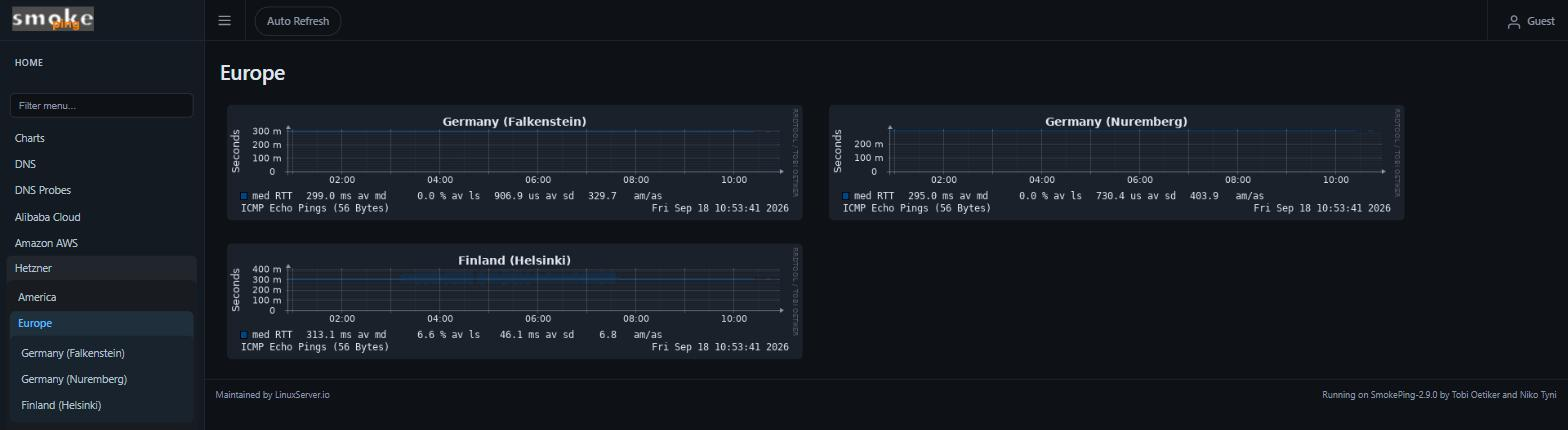
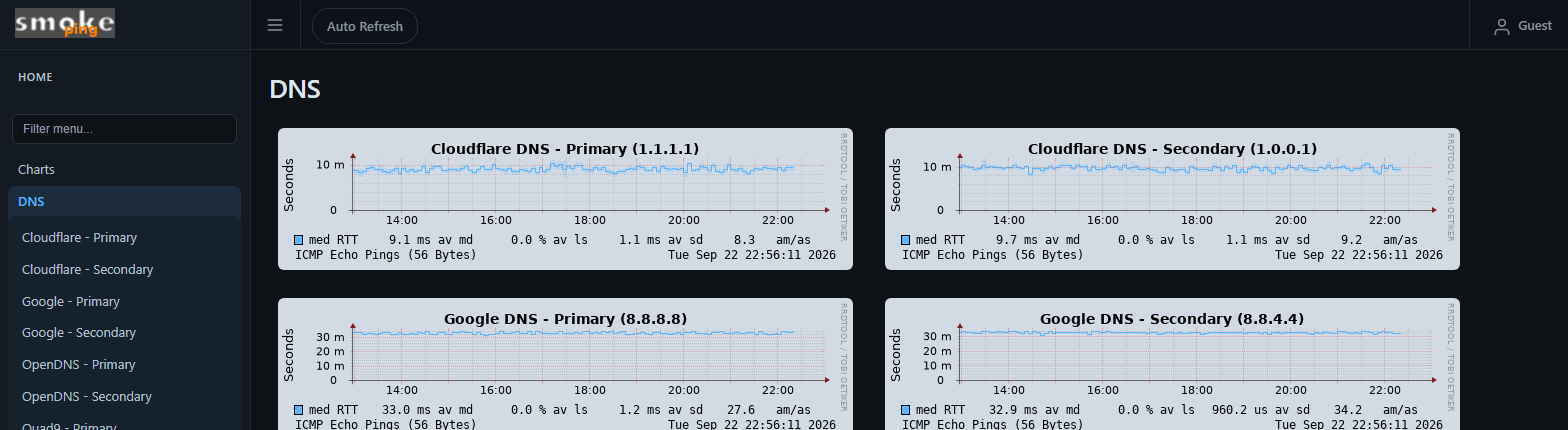
Refine dark theme to presentation-only
This change shifts the theme to a presentation-only dark page skin with a soft blue-gray graph canvas and stock SmokePing rendering, while limiting the optional patch to DejaVu fonts and matching zoom margins. It updates the CSS, Apache alias docs, startup and uninstall scripts, README instructions, and screenshots to match the new configuration values and visual examples.

diff --git a/css/smokeping-dark.css b/css/smokeping-dark.css
@@ -13,7 +13,7 @@
 	--text-muted: #8b96a5;
 	--accent: #58b7ff;
 	--accent-soft: rgba(88, 183, 255, 0.12);
-	--graph-bg: #1a212b; /* matches colorbackground in the Presentation config (same as --surface-2) */
+	--graph-bg: #d2dae4; /* matches colorbackground in the Presentation config */
 	--radius: 10px;
 	--sidebar-width: 250px;
 }

diff --git a/README.md b/README.md
@@ -1,68 +1,73 @@
 # SmokePing Dark Theme
 
-A modern, easy-on-the-eyes dark theme for [SmokePing](https://oss.oetiker.ch/smokeping/) 2.9 and newer. It darkens the whole UI and, more importantly, the graphs themselves, so the "smoke" finally looks like smoke instead of grey blocks.
+A presentation-only dark page theme for [SmokePing](https://oss.oetiker.ch/smokeping/) 2.9 and newer. The surrounding UI uses dark surfaces, while SmokePing's stock graph renderer uses a soft blue-grey canvas so the traces, smoke, grid, and black step connectors remain easy to read. No probes, RRD files, retention settings, or collected latency data are changed.
 
-![Detail page with four dark graphs](docs/images/detail-page.png)
+## What it provides
 
-## What you get
+- Dark sidebar, navbar, panels, graph containers, and footer.
+- SmokePing's stock graph colours, smoke, grid, axes, zero rule, and connector.
+- Presentation canvas `#d2dae4`, matching the stylesheet's `--graph-bg` value.
+- Optional DejaVu graph fonts with matching drag-to-zoom margins.
+- Responsive layout, accessible links, print styles, and the existing SmokePing JavaScript assets.
 
-- **A dark UI.** Sidebar, navbar, panels and footer all go dark, with a blue accent, rounded corners and soft shadows.
-- **Dark graphs.** The smoke is drawn as translucent, accent-tinted bands that fade from nearly invisible at the edges to a soft core at the median. The latency spread reads as a cloud, and the median line stays the brightest thing on the plot.
-- **A loss palette that works on dark.** The median and loss colours are re-tuned so every loss level is visible. Loss backgrounds become subtle tints of the canvas instead of bright pastels. The grid is a faint solid white, and the fonts are larger and anti-aliased.
-- **Your data is safe.** Everything here is presentation only. The RRD files are never touched.
+## Screenshots
 
-Here is what a target with a bit of packet loss looks like over ten days. The vertical tints are loss, the pale cloud around the line is the smoke:
-
-![Ten day graph with smoke and loss](docs/images/graph-10-days.png)
-
-And the same target over the last 30 hours:
-
-![Thirty hour graph](docs/images/graph-30-hours.png)
-
-The overview pages get the same treatment:
+These examples show the current theme and graph presentation:
 
 ![Overview page](docs/images/overview-page.png)
 
-## How it works
+![Detail page](docs/images/detail-page.png)
 
-SmokePing 2.9 lets you set `graphborders`, `colorbackground` and `colortext` in the Presentation config, but the smoke shading, loss palette, median base line, zero rule, grid colours and fonts are all hardcoded for a light canvas. A small init script (`custom-cont-init.d/10-dark-graphs.sh`) patches those at container start:
+![10-day graph](docs/images/graph-10-days.png)
 
-| Patch | Effect |
-| --- | --- |
-| `smokecol` in `Smokeping.pm` draws one translucent accent-tinted colour per band | The nested bands stack into a gradient from 6% coverage at the edges to 60% at the median. This works for any ping count, so 5-ping and 20-ping probes both look right. |
-| Loss palette (`#26ff00`, `#00b8ff`, `#0059ff`, and so on) becomes bright, evenly spaced hues | The median line and loss legend stay readable. The stock blues and purples vanish on dark. |
-| Loss background tints blend the loss colour into `colorbackground` | Subtle tinted loss columns instead of bright pastels. |
-| `LINE1:median#202020` becomes `#dfe5ee`, `HRULE:0#000000` becomes `#8b96a5` | The base line and zero rule are visible on dark. |
-| `GRID`, `MGRID`, `AXIS` and `ARROW` colours, `--grid-dash 1:0` and `--font` sizes added in `Graphs.pm` | Faint solid grid, muted axes, larger anti-aliased title, axis and legend text. |
-| `RRDLeft` and `RRDRight` in `smokeping.js` | Drag-to-zoom still maps pixels to time correctly with the larger axis font. |
+![30-hour graph](docs/images/graph-30-hours.png)
 
-The script is idempotent and re-applies itself after image updates or container recreation. If you ever want to go back, `uninstall-dark-graphs.sh` reverses every patch on a running container or a native install.
+## Presentation settings
 
-## What's in the box
+Set these values in the `*** Presentation ***` section:
+
+```ini
+graphborders = no
+colorbackground = d2dae4
+
++ overview
+width = 470
+height = 50
+
++ detail
+width = 600
+height = 200
+```
+
+Leave `colortext` unset so SmokePing uses its stock graph text colour. The 470-pixel overview width keeps two overview graphs on a row at desktop widths; detail graphs remain 600 pixels wide. An overview median accent can be set separately with `median_color = 58b7ff` in the `+ overview` section.
+
+## Files
 
 | File | Purpose |
 | --- | --- |
-| `basepage.html` | SmokePing page template with the dark CSS link and a dark favicon |
-| `css/smokeping-dark.css` | The stylesheet |
-| `apache/theme-alias.conf` | Apache alias so the CSS is served from a persistent path |
-| `custom-cont-init.d/10-dark-graphs.sh` | Container init script that patches SmokePing for dark graphs |
-| `uninstall-dark-graphs.sh` | Reverses the graph patches on a running container or native install |
+| `basepage.html` | SmokePing page template with the dark stylesheet link and inline favicon |
+| `css/smokeping-dark.css` | Dark page stylesheet; `--graph-bg` matches `colorbackground` |
+| `apache/theme-alias.conf` | Apache alias that serves the persistent theme directory |
+| `custom-cont-init.d/10-dark-graphs.sh` | Idempotent startup patch for DejaVu graph fonts and matching zoom margins |
+| `uninstall-dark-graphs.sh` | Safe reverse helper for the optional font and zoom-margin patch |
+| `docs/images/` | Theme and graph examples used in this document |
+
+The startup patch is limited to graph font declarations and the matching zoom margins. It does not change graph colours, smoke, grid, axes, connectors, canvas, or renderer behaviour. Both scripts skip files that do not contain their patch marker.
 
 ## Install on the linuxserver/smokeping Docker image
 
-The container's webroot and Perl libs are not persisted, so the theme lives in bind-mounted volumes plus a startup script. That way it survives container recreation and image updates.
+The container webroot is not persisted, so place the theme files in the config volume and mount the startup-script directory.
 
-1. Copy the theme into the config volume and the init script next to it:
+1. Copy the template, stylesheet, and startup script:
 
    ```sh
    mkdir -p /path/to/smokeping/config/theme /path/to/smokeping/custom-cont-init.d
    cp basepage.html css/smokeping-dark.css /path/to/smokeping/config/theme/
    cp custom-cont-init.d/10-dark-graphs.sh /path/to/smokeping/custom-cont-init.d/
-   chown root:root /path/to/smokeping/custom-cont-init.d/10-dark-graphs.sh
    chmod 755 /path/to/smokeping/custom-cont-init.d/10-dark-graphs.sh
    ```
 
-2. Mount the init script directory in your compose file:
+2. Mount the directories in the compose file:
 
    ```yaml
    volumes:
@@ -71,7 +76,7 @@ The container's webroot and Perl libs are not persisted, so the theme lives in b
      - ./custom-cont-init.d:/custom-cont-init.d:ro
    ```
 
-3. Add the alias from `apache/theme-alias.conf` to `config/site-confs/smokeping.conf`, **above** the existing `Alias /smokeping ...` line:
+3. Add the alias from `apache/theme-alias.conf` to `config/site-confs/smokeping.conf`, above the existing `Alias /smokeping ...` line:
 
    ```apache
    Alias /smokeping/theme /config/theme
@@ -80,7 +85,7 @@ The container's webroot and Perl libs are not persisted, so the theme lives in b
    </Directory>
    ```
 
-4. In `config/Presentation`, point at the new template and set the dark graph colours. The background matches the panel surface so each graph sits flush inside its card:
+4. In `config/Presentation`, point to the template and set the graph presentation values:
 
    ```ini
    *** Presentation ***
@@ -88,52 +93,61 @@ The container's webroot and Perl libs are not persisted, so the theme lives in b
    template = /config/theme/basepage.html
    charset  = utf-8
    graphborders = no
-   colorbackground = 1a212b
-   colortext = dfe5ee
+   colorbackground = d2dae4
+
+   + overview
+   width = 470
+   height = 50
+
+   + detail
+   width = 600
+   height = 200
    ```
 
-   If you would like the overview graphs to have an accent-coloured median line, add this to the `+ overview` section:
+   Leave `colortext` unset. The smaller overview width keeps two overview graphs on a row; detail graphs remain 600 pixels wide.
 
-   ```ini
-   median_color = 58b7ff
-   ```
-
-5. Recreate the container and clear the rendered graph images. This does **not** touch your RRD history, it just forces SmokePing to draw fresh PNGs:
+5. Recreate the container and clear only rendered graph images. This does not touch RRD history:
 
    ```sh
-   docker compose up -d
+   docker compose up -d --force-recreate
    docker exec smokeping sh -c \
      'find /var/cache/smokeping -name "*.png" -not -name smokeping.png -not -name rrdtool.png -delete'
    ```
 
-That's it. Reload the page and enjoy.
+## Install on a native SmokePing host
 
-### Upgrading the theme
+1. Copy `basepage.html` and `css/smokeping-dark.css` to locations served by SmokePing.
+2. Adjust the stylesheet link in `basepage.html` if the CSS is not served at `theme/smokeping-dark.css`.
+3. Set `template = /path/to/basepage.html` in the Presentation section and add:
 
-When you pull a newer `10-dark-graphs.sh`, force a fresh container so the script patches pristine files instead of skipping ones it already marked as patched:
+   ```ini
+   graphborders = no
+   colorbackground = d2dae4
+
+   + overview
+   width = 470
+   height = 50
+
+   + detail
+   width = 600
+   height = 200
+   ```
+
+   Leave `colortext` unset. The smaller overview width keeps two overview graphs on a row; detail graphs remain 600 pixels wide.
+4. To use the improved graph typography, adjust `GR` and `JS` at the top of `custom-cont-init.d/10-dark-graphs.sh`, then run it as a root startup hook.
+
+## Updating or removing the optional graph patch
+
+Copy the updated theme files and restart or recreate SmokePing. The startup script is safe to rerun and skips files carrying its `dark-font-patch` marker.
+
+To remove the font and zoom-margin changes from a native install or running container, adjust the paths in `uninstall-dark-graphs.sh` when needed and run:
 
 ```sh
-docker compose up -d --force-recreate
+bash uninstall-dark-graphs.sh
 ```
 
-## Prefer light graphs on the dark page?
-
-No problem. Skip the init script and the `colortext` line, and use a soft off-white background instead:
-
-```ini
-graphborders = no
-colorbackground = e9edf3
-```
-
-Then set `--graph-bg: #e9edf3;` in `css/smokeping-dark.css` so the panel hover states still match.
-
-## Install on a native SmokePing
-
-1. Drop `smokeping-dark.css` into your SmokePing `htdocs/css/` directory.
-2. Adjust the `<link rel="stylesheet" ...>` path in `basepage.html` to match.
-3. Set `template = /path/to/basepage.html` in the Presentation section and add the Presentation settings shown above.
-4. Run `10-dark-graphs.sh` once against your installed `Smokeping.pm`, `Graphs.pm` and `smokeping.js`. Adjust the paths at the top of the script if yours differ, and re-run it after upgrades.
+The helper only changes files carrying the `dark-font-patch` marker and never touches RRD files.
 
 ## Credits
 
-SmokePing is by Tobi Oetiker and Niko Tyni. The screenshots above are from a live instance running the linuxserver/smokeping image.
+SmokePing is by Tobi Oetiker and Niko Tyni.

diff --git a/AGENTS.md b/AGENTS.md
@@ -1,6 +1,6 @@
 # SmokePing Dark Theme
 
-This repository is a presentation-only dark theme and graph-rendering integration for SmokePing 2.9 and newer. It is designed primarily for the `linuxserver/smokeping` Docker image, with documented support for native SmokePing installs. It does not change probes, RRD files, retention, or collected latency data.
+This repository is a presentation-only dark theme for SmokePing 2.9 and newer. It is designed primarily for the `linuxserver/smokeping` Docker image, with documented support for native SmokePing installs. It does not change probes, RRD files, retention, or collected latency data. SmokePing's stock graph renderer is retained; the theme changes the page UI, Presentation canvas, and optional graph typography.
 
 ## Model routing
 
@@ -11,29 +11,31 @@ This repository is a presentation-only dark theme and graph-rendering integratio
 ## Repository map
 
 - `basepage.html` — SmokePing page template. It preserves SmokePing template tokens and loads the dark stylesheet and inline favicon.
-- `css/smokeping-dark.css` — screen stylesheet for the sidebar, navbar, panels, graphs, footer, responsive layout, and dark colour variables.
+- `css/smokeping-dark.css` — screen stylesheet for the sidebar, navbar, panels, graphs, footer, responsive layout, and dark colour variables. Its `--graph-bg` matches the Presentation canvas.
 - `apache/theme-alias.conf` — Apache `Alias` and `<Directory>` block that exposes the persistent theme directory at `/smokeping/theme`.
-- `custom-cont-init.d/10-dark-graphs.sh` — startup-time, idempotent patches for SmokePing's Perl graph code and JavaScript zoom margins. It adds the `dark-theme-patch` marker.
-- `uninstall-dark-graphs.sh` — reverses the graph and zoom patches on a running container or native install; it is not normally needed when a Docker container is recreated from a clean image.
-- `README.md` — installation, configuration, upgrade, light-graph, and uninstall instructions. Keep it synchronized with implementation changes.
-- `docs/images/` — README screenshots; update only when a visual change makes the existing examples inaccurate.
+- `custom-cont-init.d/10-dark-graphs.sh` — idempotent startup patch for DejaVu graph fonts and matching drag-to-zoom margins.
+- `uninstall-dark-graphs.sh` — safe reverse helper for the optional font and zoom-margin patch.
+- `README.md` — installation, configuration, update, and removal instructions. Keep it synchronized with implementation changes.
+- `docs/images/` — README screenshots showing the current theme and graph presentation.
 
 ## Runtime and installation assumptions
 
 - The target runtime is Linux with SmokePing 2.9+; the shell scripts require Bash and standard `grep`, `sed`, and Perl tooling, and normally need root permissions to edit SmokePing installation files.
-- The Docker workflow expects the theme files under `/config/theme` and the init script mounted at `/custom-cont-init.d`. The Apache alias must appear before the broader `Alias /smokeping ...` rule.
-- The documented dark Presentation settings are `graphborders = no`, `colorbackground = 1a212b`, and `colortext = dfe5ee`; the CSS `--graph-bg` must remain in step with `colorbackground`.
+- The Docker workflow expects the theme files under `/config/theme` and the startup script mounted at `/custom-cont-init.d`. The Apache alias must appear before the broader `Alias /smokeping ...` rule.
+- The documented Presentation settings are `graphborders = no`, `colorbackground = d2dae4`, `+ overview width = 470`, `+ overview height = 50`, and `+ detail width = 600`; `colortext` is intentionally omitted. The overview width keeps two overview graphs on a row at desktop widths. CSS `--graph-bg` must remain in step with `colorbackground`.
 - `basepage.html` expects the alias-backed `theme/smokeping-dark.css` path and SmokePing's existing `js/` assets. Do not replace its `<##...##>` tokens or script imports without checking SmokePing template compatibility.
-- Native installs must adjust the paths at the top of both shell scripts and the stylesheet link as described in `README.md`.
+- Native installs must adjust the stylesheet link and the `GR` and `JS` paths at the top of `custom-cont-init.d/10-dark-graphs.sh` as described in `README.md`.
+
+The startup patch carries the `dark-font-patch` marker in the graph font and zoom-margin changes. The reverse helper uses the same marker and is safe on unpatched files.
 
 ## Invariants and safety
 
 - Never modify RRD files, probe configuration, or collected data. Clearing rendered PNGs is safe only when following the README's exclusions for `smokeping.png` and `rrdtool.png`.
-- Keep the init script idempotent: it must skip an already marked file, and every inserted block must have a reliable `dark-theme-patch` marker.
-- Keep `uninstall-dark-graphs.sh` symmetric with the init script. If a patch, colour, path, or margin changes, update the reverse operation in the same change.
+- Keep `10-dark-graphs.sh` limited to the DejaVu font and matching zoom-margin changes. It must be idempotent and must never change smoke, loss, grid, axis, connector, or canvas rendering colours.
+- Keep `uninstall-dark-graphs.sh` symmetric with the startup patch and safe on unpatched files. It must never be part of the startup path.
 - The patch regexes are coupled to SmokePing's installed source layout and current 2.9-era text. Treat upstream image/package upgrades as compatibility risks; do not broaden replacements casually.
-- Do not silently overwrite a user's unrelated SmokePing customizations. Inspect target files and use the documented pristine-image/recreate workflow when a clean baseline is required.
-- Preserve the dark graph contract: graph colours, CSS surfaces, Presentation background, and screenshot/documentation examples should agree.
+- Do not silently overwrite a user's unrelated SmokePing customizations. Inspect target files and use the documented clean-container workflow when a pristine baseline is required.
+- Preserve the stock-plus graph contract: stock graph colours and rendering, `colorbackground = d2dae4`, CSS `--graph-bg: #d2dae4`, plus only the documented DejaVu graph fonts and corresponding zoom margins. Screenshot and documentation examples should agree.
 - Avoid adding dependencies, generated files, or a build system unless the project requirements explicitly change.
 
 ## Editing guidance
@@ -41,9 +43,9 @@ This repository is a presentation-only dark theme and graph-rendering integratio
 - When editing `basepage.html`, preserve valid SmokePing placeholders, accessible links, the print stylesheet, and all stock JavaScript dependencies. Keep the dark CSS URL consistent with the Apache alias and native-install instructions.
 - When editing `css/smokeping-dark.css`, use the existing custom properties for shared colours and dimensions. Check desktop, sidebar-hidden, and narrow-screen states; keep graph panels readable and avoid changing print behaviour unintentionally.
 - When editing `apache/theme-alias.conf`, keep the specific `/smokeping/theme` alias ahead of the general SmokePing alias and retain access permissions for `/config/theme`.
-- When editing `custom-cont-init.d/10-dark-graphs.sh`, keep paths, markers, comments, and replacement expressions explicit. Changes to SmokePing graph colours, fonts, grid settings, or smoke-band math must be reflected in the uninstall script and README.
-- When editing `uninstall-dark-graphs.sh`, limit replacements to values introduced by the dark patch and retain the safe “not patched, skipping” behaviour. Do not turn Docker rollback into a destructive host operation.
-- When changing installation steps, required values, supported SmokePing versions, or rollback behaviour, update `README.md` in the same change. If a rendered result changes materially, refresh the relevant file in `docs/images/`.
+- When editing `custom-cont-init.d/10-dark-graphs.sh`, keep paths, markers, comments, and replacement expressions explicit. Do not add graph colour, smoke, grid, axis, connector, or canvas changes.
+- When editing `uninstall-dark-graphs.sh`, limit replacements to values introduced by the startup patch and retain safe “not patched, skipping” behaviour. Do not turn container removal into a destructive host operation.
+- When changing installation steps, required values, supported SmokePing versions, or removal behaviour, update `README.md` in the same change. If a rendered result changes materially, refresh the relevant file in `docs/images/`.
 
 ## Validation workflow
 
@@ -51,12 +53,12 @@ There is no automated build, test suite, package manifest, or CI workflow in thi
 
 1. Run `git diff --check` and inspect `git diff` for unintended whitespace, generated files, or unrelated changes.
 2. On Linux or WSL, run `bash -n custom-cont-init.d/10-dark-graphs.sh uninstall-dark-graphs.sh`.
-3. Check that the template tokens, stylesheet path, alias path, patch markers, and reverse replacements still agree across affected files.
-4. For runtime changes, test in a disposable SmokePing 2.9+ container or native install: apply the documented Presentation settings, recreate/patch as appropriate, clear only rendered graph PNGs, and verify the page, overview/detail graphs, loss colours, grid/fonts, responsive menu, and drag-to-zoom behaviour.
-5. Re-run the init script to confirm it is idempotent, then exercise the documented uninstall or clean-container rollback path. Confirm RRD history is unchanged.
+3. Check that the template tokens, stylesheet path, alias path, Presentation settings (including overview/detail dimensions), patch markers, reverse replacements, and screenshot references agree across affected files.
+4. For runtime changes, test in a disposable SmokePing 2.9+ container or native install: apply the documented Presentation settings, mount the theme and optional font patch, verify the stock graph colours and font marker, clear only rendered graph PNGs, and verify the page, overview/detail graphs, responsive menu, and drag-to-zoom behaviour.
+5. Run the startup script twice to confirm idempotence, then exercise the documented removal helper. Confirm RRD history is unchanged.
 
 Do not claim runtime validation when only static inspection was performed.
 
 ## Definition of done
 
-A change is complete when the requested behaviour is implemented in the smallest appropriate set of files; the init/uninstall pair remains safe and symmetric; template, CSS, Apache, README, and screenshots are synchronized as needed; static checks pass; any runtime check is reported accurately; and `git diff` contains no unrelated changes.
+A change is complete when the requested behaviour is implemented in the smallest appropriate set of files; the stock graph renderer, template, CSS, Apache configuration, README, and screenshots are synchronized as needed; static checks pass; any runtime check is reported accurately; and `git diff` contains no unrelated changes.
